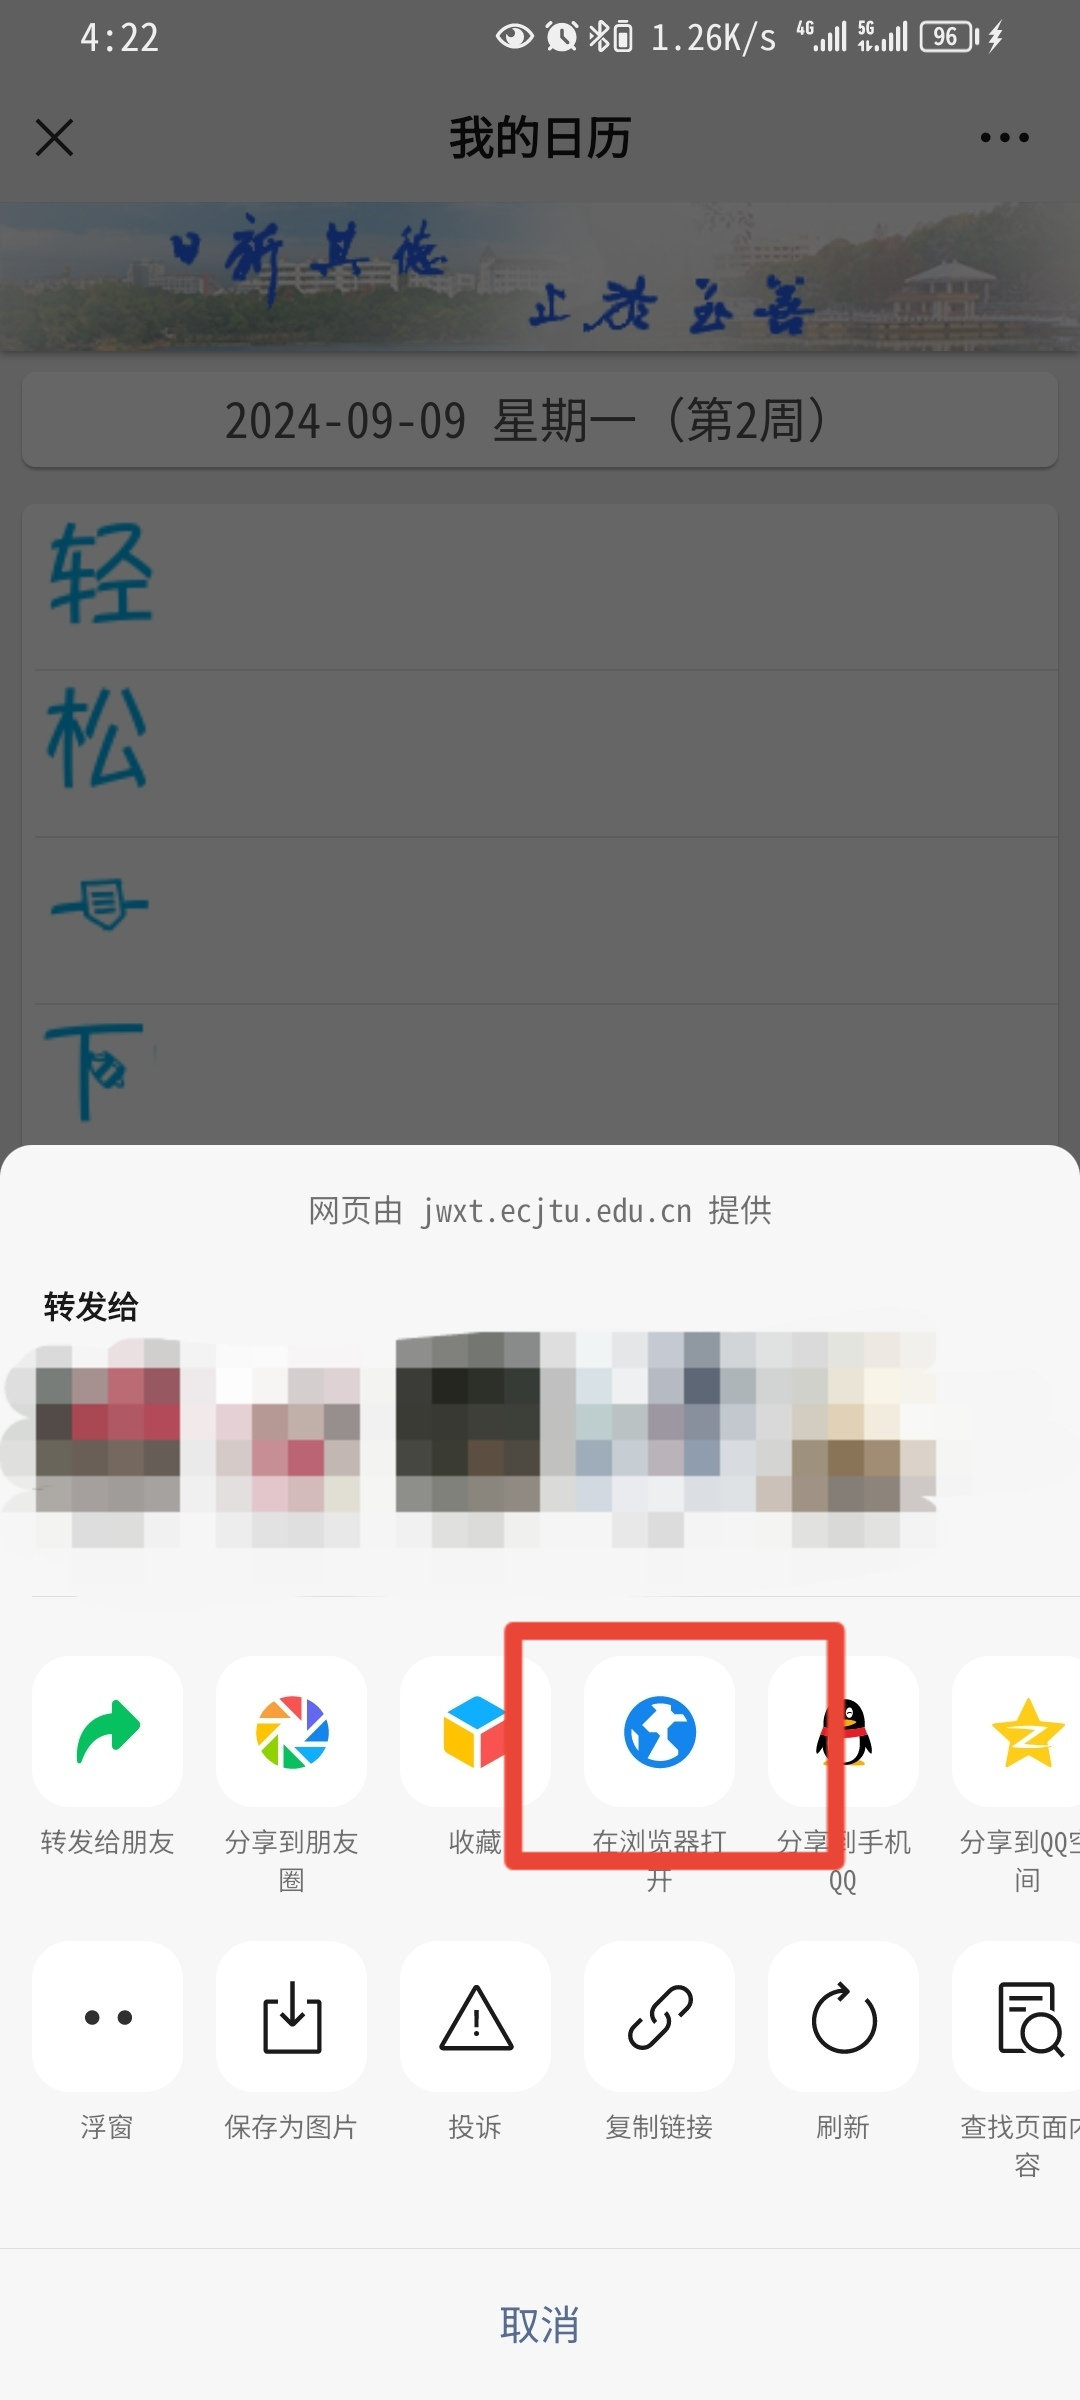
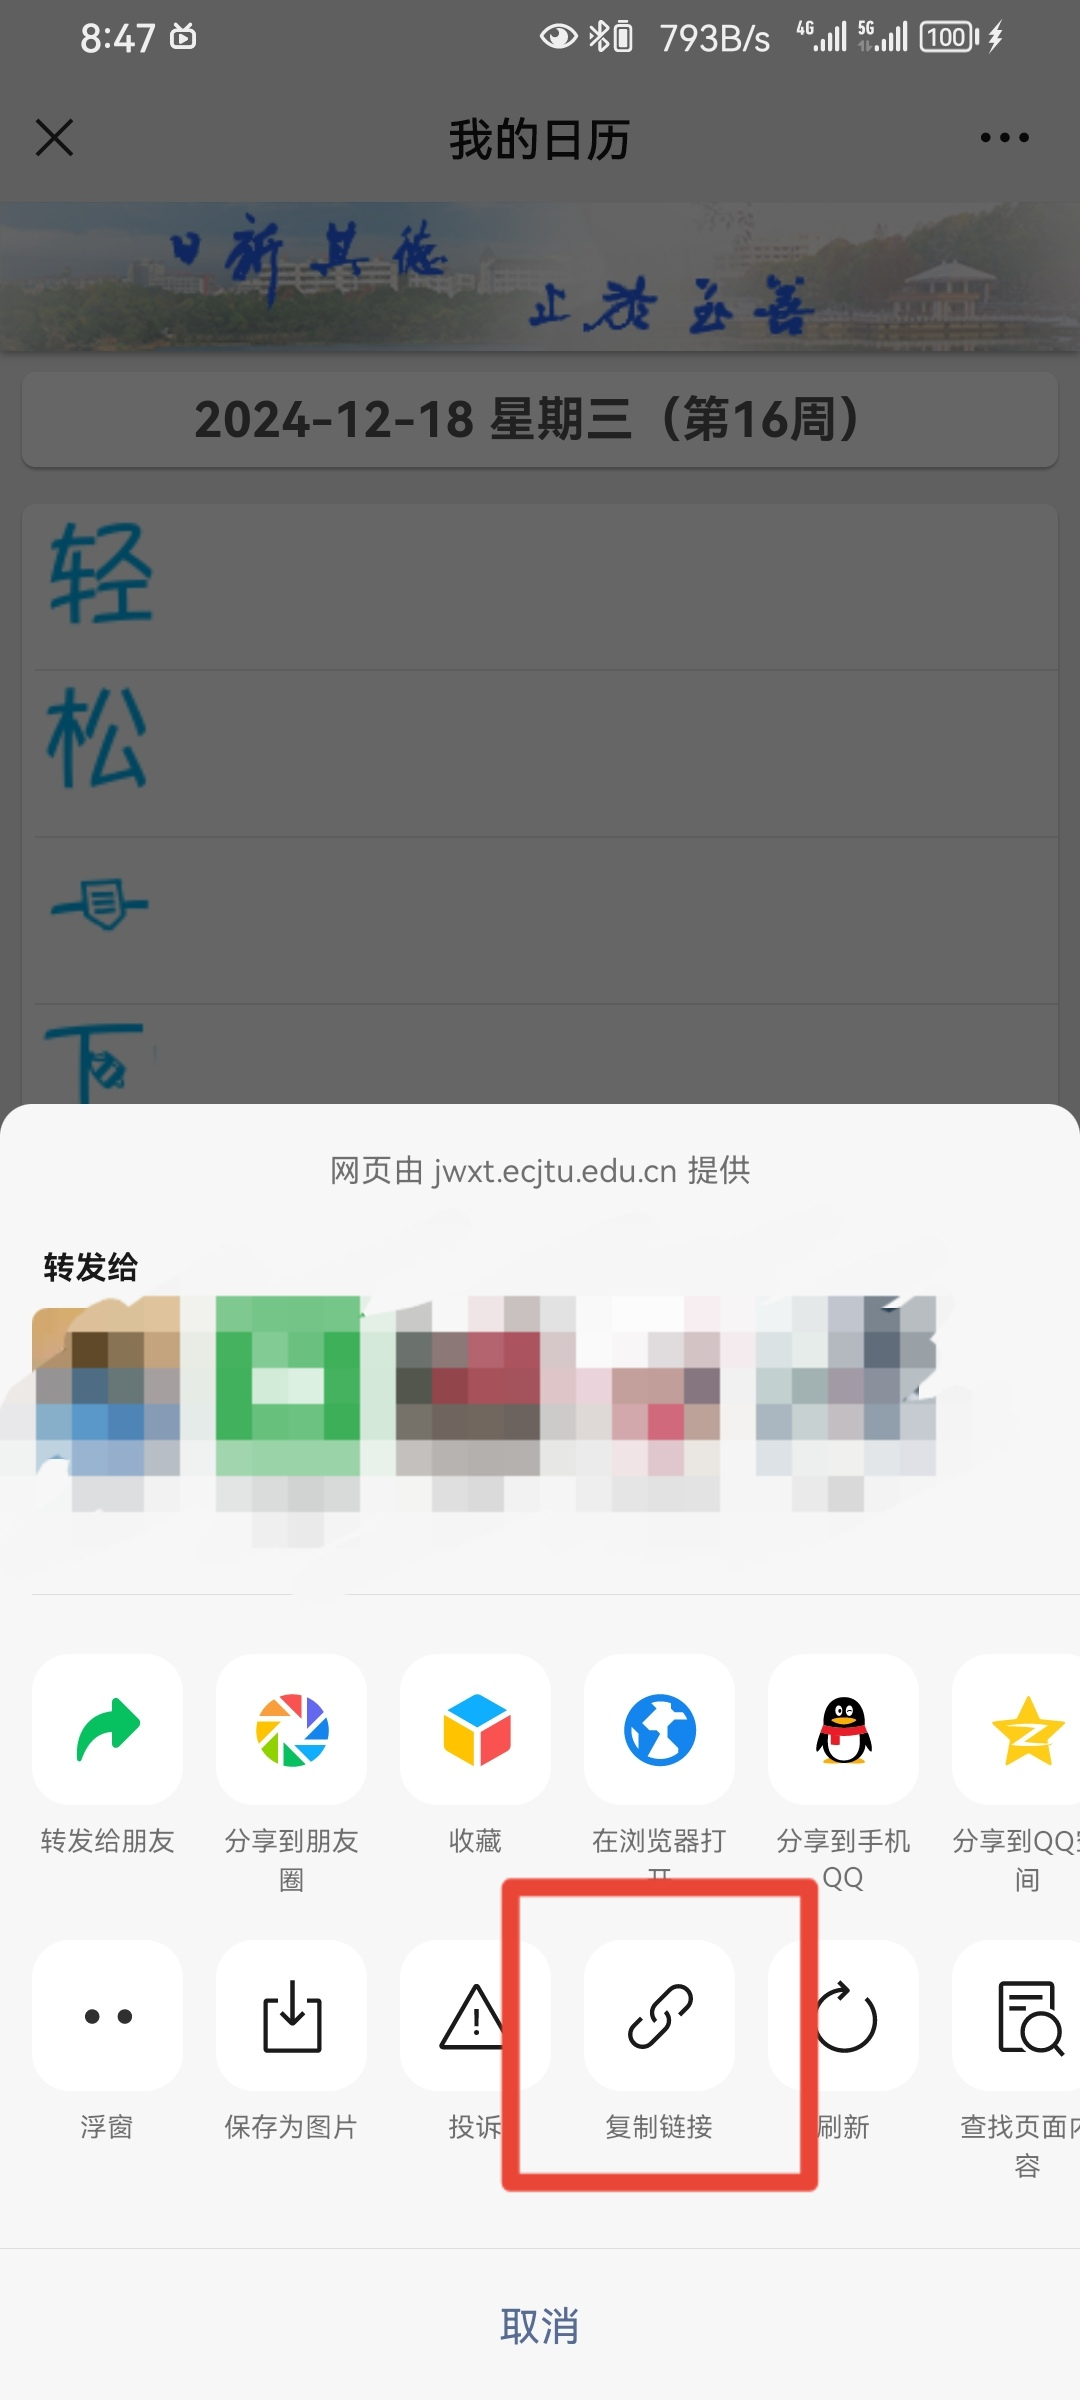
feat: 优化微信id获取并更新教程(#1)
- 更新了设置中的教程
- 添加了对华交教务链接的处理逻辑

diff --git a/app/src/main/java/com/lonx/ecjtu/hjcalendar/fragment/SettingsFragment.kt b/app/src/main/java/com/lonx/ecjtu/hjcalendar/fragment/SettingsFragment.kt
@@ -75,7 +75,11 @@ class SettingsFragment : PreferenceFragmentCompat() {
             .setTitle(preference.title)
             .setView(dialogView)
             .setPositiveButton("保存") { dialog, _ ->
-                val inputText = textInput.text.toString()
+                var inputText = textInput.text.toString()
+                if (inputText.startsWith("https://jwxt.ecjtu.edu.cn/weixin")) {
+                    ToastUtil.showToast(requireContext(), "已获取链接")
+                    inputText = inputText.substringAfter("=")
+                }
                 with(sharedPreferences.edit()) {
                     putString(key, inputText)
                     apply()
